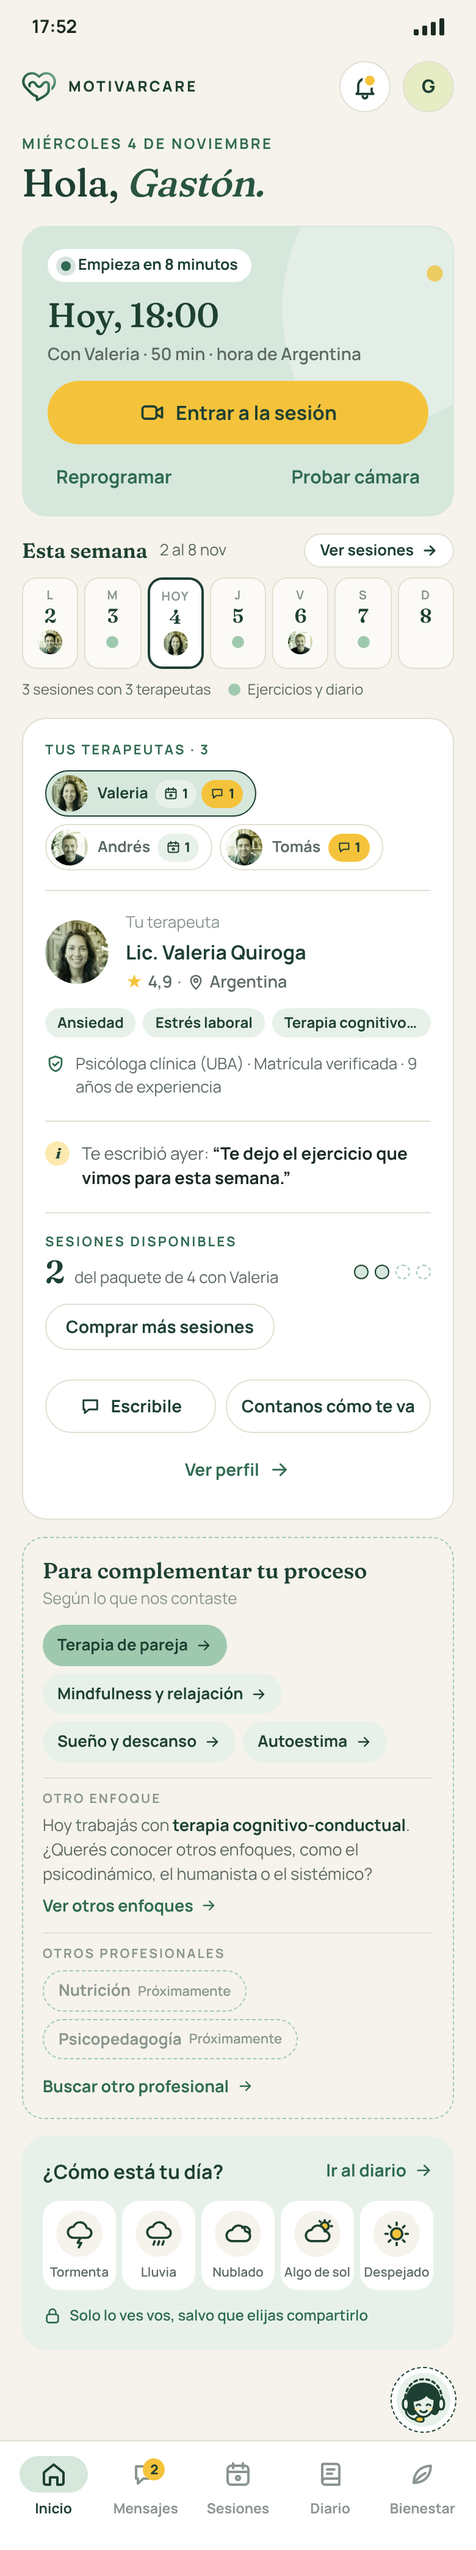
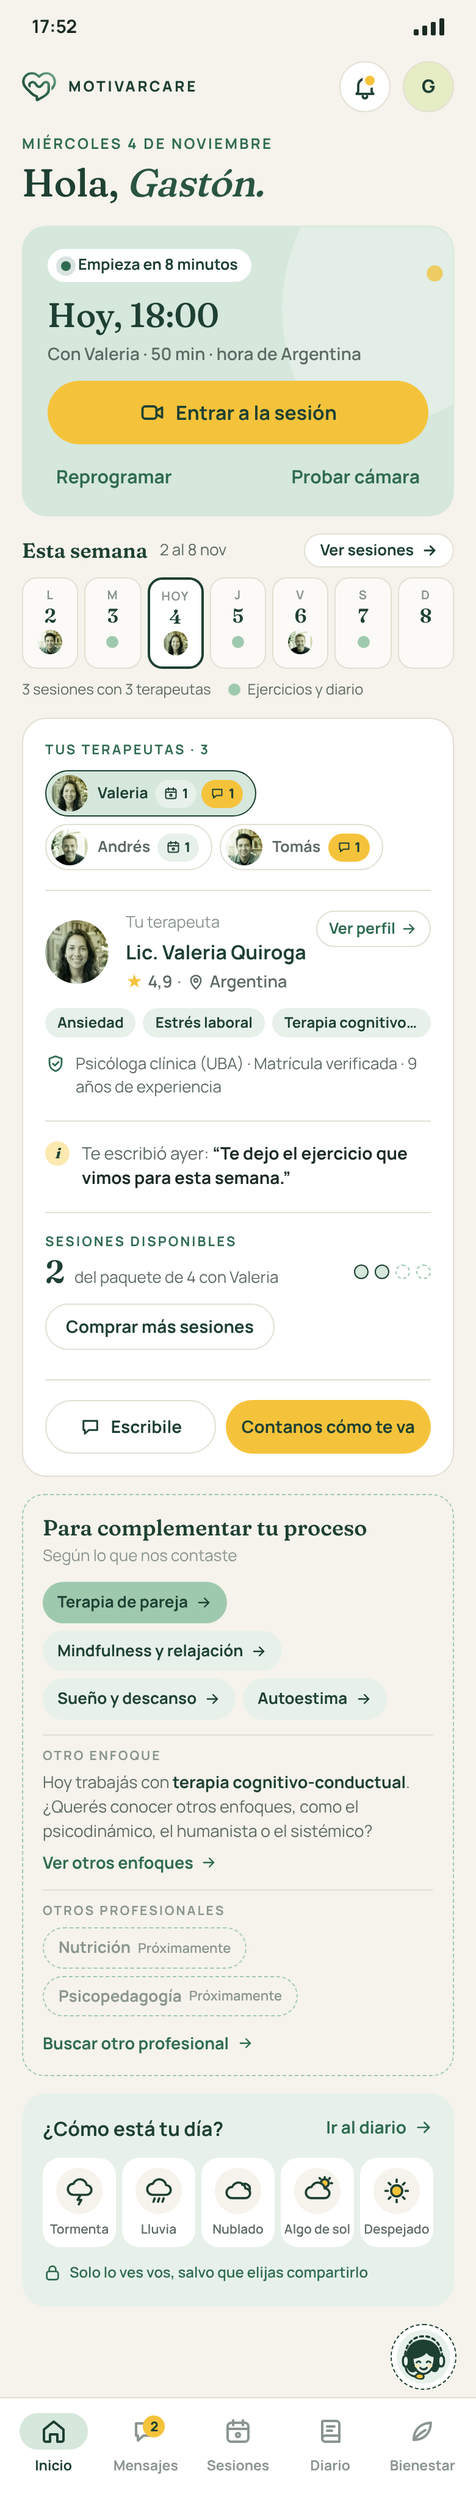
App del usuario: "Contanos cómo te va" en amarillo y "Ver perfil" arriba
En la Ficha del profesional, "Contanos cómo te va" pasa a amarillo (a
prueba), se suma una línea divisoria arriba de los botones y "Ver
perfil" vuelve a la esquina superior derecha. Mockups 1, 2, 4 y 8.

Claude-Session: https://claude.ai/code/session_01WU1DRuLLvKJwMVuiPWLics

diff --git a/web/public/app-usuario/ronda-2.html b/web/public/app-usuario/ronda-2.html
@@ -831,6 +831,12 @@ ul.lista-simple { padding: 0; }
 .pro2 .botones .boton.texto { padding: 0 6px; }
 .pro2-cab { padding-right: 0; }
 .ver-abajo { align-self: flex-start; padding: 0 !important; height: 32px; }
+
+/* Ficha del profesional: línea arriba de los botones y "Ver perfil" arriba a la derecha */
+.pro2 .botones { padding-top: 16px; border-top: 1px solid var(--linea); }
+.pro2-cab { padding-right: 96px; }
+.tel-pro .pro2-cab { padding-right: 88px; }
+.multi .pro2-cab { padding-right: 96px; }
 </style>
 </head>
 <body>
@@ -932,7 +938,7 @@ ul.lista-simple { padding: 0; }
         </div>
         <div class="columna-der">
         <article class="tarjeta pro2">
-          <div class="pro2-cab">
+          <div class="pro2-cab"><a class="ver-perfil">Ver perfil<svg class="ico"><use href="#i-flecha"/></svg></a>
             <img class="avatar" src="../landing/img/profesionales/valeria-quiroga.jpg" alt="" width="64" height="64">
             <div>
               <span class="tenue">Tu terapeuta</span>
@@ -944,7 +950,7 @@ ul.lista-simple { padding: 0; }
           <p class="credenciales"><svg class="ico"><use href="#i-escudo"/></svg>Psicóloga clínica (UBA) · Matrícula verificada · 9 años de experiencia</p>
           <div class="nota"><i>i</i><span>Te escribió ayer: <b style="color:var(--tinta)">“Te dejo el ejercicio que vimos para esta semana.”</b></span></div>
           <div class="disponibles"><span class="et">Sesiones disponibles</span><div class="fila-disp"><b>2</b><span>del paquete de 4 con Valeria</span><span class="puntos4"><i class="u"></i><i class="u"></i><i></i><i></i></span></div><a class="boton contorno comprar-mas">Comprar más sesiones</a></div>
-          <div class="botones"><a class="boton contorno"><svg class="ico chico"><use href="#i-chat"/></svg>Escribile</a><a class="boton contorno">Contanos cómo te va</a><a class="boton texto">Ver perfil<svg class="ico chico"><use href="#i-flecha"/></svg></a></div>
+          <div class="botones"><a class="boton contorno"><svg class="ico chico"><use href="#i-chat"/></svg>Escribile</a><a class="boton primario">Contanos cómo te va</a></div>
         </article>
           <div class="complementar">
             <div class="comp-cab"><b>Para complementar tu proceso</b><span class="tenue">Según lo que nos contaste</span></div>
@@ -1000,7 +1006,7 @@ ul.lista-simple { padding: 0; }
     </article>
     <div class="cal-tel"><div class="eq-cal-cab"><h2 class="eq-titulo">Esta semana</h2><span class="rango">2 al 8 nov</span><a class="eq-expandir" href="#sesiones">Ver sesiones<svg class="ico" style="width:14px;height:14px"><use href="#i-flecha"/></svg></a></div><div class="sem-tel"><div class="dt"><span class="d">L</span><span class="n">2</span><span class="m p"></span></div><div class="dt"><span class="d">M</span><span class="n">3</span><span class="m p"></span></div><div class="dt hoy"><span class="d">Hoy</span><span class="n">4</span><img class="m" src="../landing/img/profesionales/valeria-quiroga.jpg" alt=""></div><div class="dt"><span class="d">J</span><span class="n">5</span><span class="m p"></span></div><div class="dt"><span class="d">V</span><span class="n">6</span></div><div class="dt"><span class="d">S</span><span class="n">7</span><span class="m p"></span></div><div class="dt"><span class="d">D</span><span class="n">8</span></div></div><div class="ley-tel"><span><img src="../landing/img/profesionales/valeria-quiroga.jpg" alt="">Sesión con Valeria</span><span><i class="p"></i>Ejercicios y diario</span></div></div>
     <article class="tarjeta pro2 tel-pro">
-      <div class="pro2-cab">
+      <div class="pro2-cab"><a class="ver-perfil">Ver perfil<svg class="ico"><use href="#i-flecha"/></svg></a>
         <img class="avatar" src="../landing/img/profesionales/valeria-quiroga.jpg" alt="" width="52" height="52">
         <div>
           <span class="tenue">Tu terapeuta</span>
@@ -1012,7 +1018,7 @@ ul.lista-simple { padding: 0; }
       <p class="credenciales"><svg class="ico"><use href="#i-escudo"/></svg>Psicóloga clínica (UBA) · Matrícula verificada · 9 años de experiencia</p>
           <div class="nota"><i>i</i><span>Te escribió ayer: <b style="color:var(--tinta)">“Te dejo el ejercicio que vimos para esta semana.”</b></span></div>
       <div class="disponibles"><span class="et">Sesiones disponibles</span><div class="fila-disp"><b>2</b><span>del paquete de 4 con Valeria</span><span class="puntos4"><i class="u"></i><i class="u"></i><i></i><i></i></span></div><a class="boton contorno comprar-mas">Comprar más sesiones</a></div>
-      <div class="botones"><a class="boton contorno"><svg class="ico chico"><use href="#i-chat"/></svg>Escribile</a><a class="boton contorno">Contanos cómo te va</a><a class="boton texto">Ver perfil<svg class="ico chico"><use href="#i-flecha"/></svg></a></div>
+      <div class="botones"><a class="boton contorno"><svg class="ico chico"><use href="#i-chat"/></svg>Escribile</a><a class="boton primario">Contanos cómo te va</a></div>
     </article>
     <div class="complementar tel-comp">
             <div class="comp-cab"><b>Para complementar tu proceso</b><span class="tenue">Según lo que nos contaste</span></div>
@@ -1118,7 +1124,7 @@ ul.lista-simple { padding: 0; }
         </div>
         <div class="columna-der">
         <article class="tarjeta pro2">
-          <div class="pro2-cab">
+          <div class="pro2-cab"><a class="ver-perfil">Ver perfil<svg class="ico"><use href="#i-flecha"/></svg></a>
             <img class="avatar" src="../landing/img/profesionales/valeria-quiroga.jpg" alt="" width="64" height="64">
             <div>
               <span class="tenue">Tu terapeuta</span>
@@ -1129,7 +1135,7 @@ ul.lista-simple { padding: 0; }
           <div class="pills"><span class="chip">Ansiedad</span><span class="chip">Estrés laboral</span><span class="chip">Terapia cognitivo-conductual</span><span class="chip">Autoestima</span><span class="chip">Vínculos</span></div>
           <p class="credenciales"><svg class="ico"><use href="#i-escudo"/></svg>Psicóloga clínica (UBA) · Matrícula verificada · 9 años de experiencia</p>
           <div class="disponibles"><span class="et">Sesiones disponibles</span><div class="fila-disp"><b>1</b><span>del paquete de 4 con Valeria</span><span class="puntos4"><i class="u"></i><i class="u"></i><i class="u"></i><i></i></span></div><a class="boton bosque comprar-mas">Comprar más sesiones</a></div>
-          <div class="botones"><a class="boton contorno"><svg class="ico chico"><use href="#i-chat"/></svg>Escribile</a><a class="boton contorno">Contanos cómo te va</a><a class="boton texto">Ver perfil<svg class="ico chico"><use href="#i-flecha"/></svg></a></div>
+          <div class="botones"><a class="boton contorno"><svg class="ico chico"><use href="#i-chat"/></svg>Escribile</a><a class="boton primario">Contanos cómo te va</a></div>
         </article>
           <div class="complementar">
             <div class="comp-cab"><b>Para complementar tu proceso</b><span class="tenue">Según lo que nos contaste</span></div>
@@ -1190,7 +1196,7 @@ ul.lista-simple { padding: 0; }
     </article>
     <div class="cal-tel"><div class="eq-cal-cab"><h2 class="eq-titulo">Esta semana</h2><span class="rango">2 al 8 nov</span><a class="eq-expandir" href="#sesiones">Ver sesiones<svg class="ico" style="width:14px;height:14px"><use href="#i-flecha"/></svg></a></div><div class="sem-tel"><div class="dt"><span class="d">L</span><span class="n">2</span><span class="marcas"><span class="m p"></span></span></div><div class="dt"><span class="d">M</span><span class="n">3</span><span class="marcas"><span class="m p"></span></span></div><div class="dt hoy"><span class="d">Hoy</span><span class="n">4</span><span class="marcas"><span class="m l"></span></span></div><div class="dt"><span class="d">J</span><span class="n">5</span><span class="marcas"><span class="m p"></span><span class="m l"></span></span></div><div class="dt"><span class="d">V</span><span class="n">6</span><span class="marcas"><span class="m l"></span></span></div><div class="dt"><span class="d">S</span><span class="n">7</span><span class="marcas"><span class="m p"></span></span></div><div class="dt"><span class="d">D</span><span class="n">8</span><span class="marcas"></span></div></div><div class="ley-tel"><span><i class="l"></i>Horario libre de Valeria</span><span><i class="p"></i>Ejercicios y diario</span></div></div>
     <article class="tarjeta pro2 tel-pro">
-      <div class="pro2-cab">
+      <div class="pro2-cab"><a class="ver-perfil">Ver perfil<svg class="ico"><use href="#i-flecha"/></svg></a>
         <img class="avatar" src="../landing/img/profesionales/valeria-quiroga.jpg" alt="" width="52" height="52">
         <div>
           <span class="tenue">Tu terapeuta</span>
@@ -1201,7 +1207,7 @@ ul.lista-simple { padding: 0; }
       <div class="pills"><span class="chip">Ansiedad</span><span class="chip">Estrés laboral</span><span class="chip">Terapia cognitivo-conductual</span><span class="chip">Autoestima</span><span class="chip">Vínculos</span></div>
       <p class="credenciales"><svg class="ico"><use href="#i-escudo"/></svg>Psicóloga clínica (UBA) · Matrícula verificada · 9 años de experiencia</p>
       <div class="disponibles"><span class="et">Sesiones disponibles</span><div class="fila-disp"><b>1</b><span>del paquete de 4 con Valeria</span><span class="puntos4"><i class="u"></i><i class="u"></i><i class="u"></i><i></i></span></div><a class="boton bosque comprar-mas">Comprar más sesiones</a></div>
-      <div class="botones"><a class="boton contorno"><svg class="ico chico"><use href="#i-chat"/></svg>Escribile</a><a class="boton contorno">Contanos cómo te va</a><a class="boton texto">Ver perfil<svg class="ico chico"><use href="#i-flecha"/></svg></a></div>
+      <div class="botones"><a class="boton contorno"><svg class="ico chico"><use href="#i-chat"/></svg>Escribile</a><a class="boton primario">Contanos cómo te va</a></div>
     </article>
     <div class="complementar tel-comp">
             <div class="comp-cab"><b>Para complementar tu proceso</b><span class="tenue">Según lo que nos contaste</span></div>
@@ -1486,7 +1492,7 @@ ul.lista-simple { padding: 0; }
               <span class="tab-pro"><img src="../landing/img/profesionales/tomas-benitez.jpg" alt=""><span>Tomás</span><span class="aviso msj" title="1 mensaje sin leer"><svg class="ico"><use href="#i-chat"/></svg>1</span></span>
             </div>
           </div>
-          <div class="pro2-cab">
+          <div class="pro2-cab"><a class="ver-perfil">Ver perfil<svg class="ico"><use href="#i-flecha"/></svg></a>
             <img class="avatar" src="../landing/img/profesionales/valeria-quiroga.jpg" alt="" width="64" height="64">
             <div>
               <span class="tenue">Tu terapeuta</span>
@@ -1498,7 +1504,7 @@ ul.lista-simple { padding: 0; }
           <p class="credenciales"><svg class="ico"><use href="#i-escudo"/></svg>Psicóloga clínica (UBA) · Matrícula verificada · 9 años de experiencia</p>
           <div class="nota"><i>i</i><span>Te escribió ayer: <b style="color:var(--tinta)">“Te dejo el ejercicio que vimos para esta semana.”</b></span></div>
           <div class="disponibles"><span class="et">Sesiones disponibles</span><div class="fila-disp"><b>2</b><span>del paquete de 4 con Valeria</span><span class="puntos4"><i class="u"></i><i class="u"></i><i></i><i></i></span></div><a class="boton contorno comprar-mas">Comprar más sesiones</a></div>
-          <div class="botones"><a class="boton contorno"><svg class="ico chico"><use href="#i-chat"/></svg>Escribile</a><a class="boton contorno">Contanos cómo te va</a><a class="boton texto">Ver perfil<svg class="ico chico"><use href="#i-flecha"/></svg></a></div>
+          <div class="botones"><a class="boton contorno"><svg class="ico chico"><use href="#i-chat"/></svg>Escribile</a><a class="boton primario">Contanos cómo te va</a></div>
         </article>
           <div class="complementar">
             <div class="comp-cab"><b>Para complementar tu proceso</b><span class="tenue">Según lo que nos contaste</span></div>
@@ -1562,7 +1568,7 @@ ul.lista-simple { padding: 0; }
               <span class="tab-pro"><img src="../landing/img/profesionales/tomas-benitez.jpg" alt=""><span>Tomás</span><span class="aviso msj" title="1 mensaje sin leer"><svg class="ico"><use href="#i-chat"/></svg>1</span></span>
             </div>
           </div>
-      <div class="pro2-cab">
+      <div class="pro2-cab"><a class="ver-perfil">Ver perfil<svg class="ico"><use href="#i-flecha"/></svg></a>
         <img class="avatar" src="../landing/img/profesionales/valeria-quiroga.jpg" alt="" width="52" height="52">
         <div>
           <span class="tenue">Tu terapeuta</span>
@@ -1574,7 +1580,7 @@ ul.lista-simple { padding: 0; }
       <p class="credenciales"><svg class="ico"><use href="#i-escudo"/></svg>Psicóloga clínica (UBA) · Matrícula verificada · 9 años de experiencia</p>
           <div class="nota"><i>i</i><span>Te escribió ayer: <b style="color:var(--tinta)">“Te dejo el ejercicio que vimos para esta semana.”</b></span></div>
       <div class="disponibles"><span class="et">Sesiones disponibles</span><div class="fila-disp"><b>2</b><span>del paquete de 4 con Valeria</span><span class="puntos4"><i class="u"></i><i class="u"></i><i></i><i></i></span></div><a class="boton contorno comprar-mas">Comprar más sesiones</a></div>
-      <div class="botones"><a class="boton contorno"><svg class="ico chico"><use href="#i-chat"/></svg>Escribile</a><a class="boton contorno">Contanos cómo te va</a><a class="boton texto">Ver perfil<svg class="ico chico"><use href="#i-flecha"/></svg></a></div>
+      <div class="botones"><a class="boton contorno"><svg class="ico chico"><use href="#i-chat"/></svg>Escribile</a><a class="boton primario">Contanos cómo te va</a></div>
     </article>
     <div class="complementar tel-comp">
             <div class="comp-cab"><b>Para complementar tu proceso</b><span class="tenue">Según lo que nos contaste</span></div>
@@ -2108,7 +2114,7 @@ ul.lista-simple { padding: 0; }
         </div>
         <div class="columna-der">
           <article class="tarjeta pro2">
-          <div class="pro2-cab">
+          <div class="pro2-cab"><a class="ver-perfil">Ver perfil<svg class="ico"><use href="#i-flecha"/></svg></a>
             <img class="avatar" src="../landing/img/profesionales/valeria-quiroga.jpg" alt="" width="64" height="64">
             <div>
               <span class="tenue">Tu terapeuta</span>
@@ -2119,7 +2125,7 @@ ul.lista-simple { padding: 0; }
           <div class="pills"><span class="chip">Ansiedad</span><span class="chip">Estrés laboral</span><span class="chip">Terapia cognitivo-conductual</span><span class="chip">Autoestima</span><span class="chip">Vínculos</span></div>
           <p class="credenciales"><svg class="ico"><use href="#i-escudo"/></svg>Psicóloga clínica (UBA) · Matrícula verificada · 9 años de experiencia</p>
           
-        <div class="aclaraciones"><div class="item"><svg class="ico chico"><use href="#i-video"/></svg><span>Videollamada de 50 min. El enlace te llega por mail y queda en Sesiones.</span></div><div class="item"><svg class="ico chico"><use href="#i-reloj"/></svg><span>Podés reprogramar sin costo hasta 24 h antes.</span></div></div><a class="boton texto ver-abajo">Ver perfil<svg class="ico chico"><use href="#i-flecha"/></svg></a>
+        <div class="aclaraciones"><div class="item"><svg class="ico chico"><use href="#i-video"/></svg><span>Videollamada de 50 min. El enlace te llega por mail y queda en Sesiones.</span></div><div class="item"><svg class="ico chico"><use href="#i-reloj"/></svg><span>Podés reprogramar sin costo hasta 24 h antes.</span></div></div>
           </article>
           <div class="tarjeta reservar-box">
             <span class="et-franja" style="width:auto;color:var(--verde-medio)">Tu sesión</span>
@@ -2156,7 +2162,7 @@ ul.lista-simple { padding: 0; }
           <div class="nota ctx-nota"><i>i</i><span>Te recomendamos reservar una sola sesión como <b>encuentro inicial</b>, para conocerse con Valeria. Si se sienten a gusto, después pueden seguir con un paquete.</span></div>
         </article>
     <article class="tarjeta pro2 tel-pro">
-      <div class="pro2-cab">
+      <div class="pro2-cab"><a class="ver-perfil">Ver perfil<svg class="ico"><use href="#i-flecha"/></svg></a>
         <img class="avatar" src="../landing/img/profesionales/valeria-quiroga.jpg" alt="" width="52" height="52">
         <div>
           <span class="tenue">Reservás con</span>
@@ -2166,7 +2172,7 @@ ul.lista-simple { padding: 0; }
       </div>
       <div class="pills"><span class="chip">Ansiedad</span><span class="chip">Estrés laboral</span><span class="chip">Terapia cognitivo-conductual</span><span class="chip">Autoestima</span><span class="chip">Vínculos</span></div>
       
-    <div class="aclaraciones"><div class="item"><svg class="ico chico"><use href="#i-video"/></svg><span>Videollamada de 50 min.</span></div><div class="item"><svg class="ico chico"><use href="#i-reloj"/></svg><span>Podés reprogramar sin costo hasta 24 h antes.</span></div></div><a class="boton texto ver-abajo">Ver perfil<svg class="ico chico"><use href="#i-flecha"/></svg></a>
+    <div class="aclaraciones"><div class="item"><svg class="ico chico"><use href="#i-video"/></svg><span>Videollamada de 50 min.</span></div><div class="item"><svg class="ico chico"><use href="#i-reloj"/></svg><span>Podés reprogramar sin costo hasta 24 h antes.</span></div></div>
     </article>
     <span class="peq" style="color:var(--bosque)">Horarios libres en tu hora (Argentina)</span>
     <div class="lista-dias"><div class="dia-sec"><div class="dia-cab"><b>Hoy, miércoles 4 de noviembre</b><span class="tenue">1 horario</span></div><div class="horarios"><span class="horario">18:00</span></div></div><div class="dia-sec"><div class="dia-cab"><b>Jueves 5 de noviembre</b><span class="tenue">3 horarios</span></div><div class="horarios"><span class="horario">13:00</span><span class="horario elegido">18:30</span><span class="horario">20:00</span></div></div><div class="dia-sec"><div class="dia-cab"><b>Viernes 6 de noviembre</b><span class="tenue">3 horarios</span></div><div class="horarios"><span class="horario">09:00</span><span class="horario">10:00</span><span class="horario">17:00</span></div></div></div>
@@ -2202,7 +2208,7 @@ ul.lista-simple { padding: 0; }
           <div class="ctx-linea cambio"><span class="et-franja" style="width:auto">Estás cambiando</span><b>Viernes 6 de noviembre, 10:00</b></div>
         </article>
     <article class="tarjeta pro2 tel-pro">
-      <div class="pro2-cab">
+      <div class="pro2-cab"><a class="ver-perfil">Ver perfil<svg class="ico"><use href="#i-flecha"/></svg></a>
         <img class="avatar" src="../landing/img/profesionales/valeria-quiroga.jpg" alt="" width="52" height="52">
         <div>
           <span class="tenue">Tu terapeuta</span>
@@ -2212,7 +2218,7 @@ ul.lista-simple { padding: 0; }
       </div>
       <div class="pills"><span class="chip">Ansiedad</span><span class="chip">Estrés laboral</span><span class="chip">Terapia cognitivo-conductual</span><span class="chip">Autoestima</span><span class="chip">Vínculos</span></div>
       
-    <div class="aclaraciones"><div class="item"><svg class="ico chico"><use href="#i-video"/></svg><span>Videollamada de 50 min.</span></div><div class="item"><svg class="ico chico"><use href="#i-reloj"/></svg><span>Podés reprogramar sin costo hasta 24 h antes.</span></div></div><a class="boton texto ver-abajo">Ver perfil<svg class="ico chico"><use href="#i-flecha"/></svg></a>
+    <div class="aclaraciones"><div class="item"><svg class="ico chico"><use href="#i-video"/></svg><span>Videollamada de 50 min.</span></div><div class="item"><svg class="ico chico"><use href="#i-reloj"/></svg><span>Podés reprogramar sin costo hasta 24 h antes.</span></div></div>
     </article>
     <span class="peq" style="color:var(--bosque)">Horarios libres en tu hora (Argentina)</span>
     <div class="lista-dias"><div class="dia-sec"><div class="dia-cab"><b>Hoy, miércoles 4 de noviembre</b><span class="tenue">1 horario</span></div><div class="horarios"><span class="horario">18:00</span></div></div><div class="dia-sec"><div class="dia-cab"><b>Jueves 5 de noviembre</b><span class="tenue">3 horarios</span></div><div class="horarios"><span class="horario">13:00</span><span class="horario elegido">18:30</span><span class="horario">20:00</span></div></div><div class="dia-sec"><div class="dia-cab"><b>Viernes 6 de noviembre</b><span class="tenue">3 horarios</span></div><div class="horarios"><span class="horario">09:00</span><span class="horario actual">10:00<small>La que cambiás</small></span><span class="horario">17:00</span></div></div></div>
@@ -2248,7 +2254,7 @@ ul.lista-simple { padding: 0; }
           <div class="ctx-linea cambio" style="border-top:0;padding-top:0"><span class="et-franja" style="width:auto">Estás cambiando</span><b>Hoy, miércoles 4 de noviembre, 18:00</b></div>
         </article>
     <article class="tarjeta pro2 tel-pro">
-      <div class="pro2-cab">
+      <div class="pro2-cab"><a class="ver-perfil">Ver perfil<svg class="ico"><use href="#i-flecha"/></svg></a>
         <img class="avatar" src="../landing/img/profesionales/valeria-quiroga.jpg" alt="" width="52" height="52">
         <div>
           <span class="tenue">Tu terapeuta</span>
@@ -2258,7 +2264,7 @@ ul.lista-simple { padding: 0; }
       </div>
       <div class="pills"><span class="chip">Ansiedad</span><span class="chip">Estrés laboral</span><span class="chip">Terapia cognitivo-conductual</span><span class="chip">Autoestima</span><span class="chip">Vínculos</span></div>
       
-    <div class="aclaraciones"><div class="item"><svg class="ico chico"><use href="#i-video"/></svg><span>Videollamada de 50 min.</span></div><div class="item"><svg class="ico chico"><use href="#i-reloj"/></svg><span>Podés reprogramar sin costo hasta 24 h antes.</span></div></div><a class="boton texto ver-abajo">Ver perfil<svg class="ico chico"><use href="#i-flecha"/></svg></a>
+    <div class="aclaraciones"><div class="item"><svg class="ico chico"><use href="#i-video"/></svg><span>Videollamada de 50 min.</span></div><div class="item"><svg class="ico chico"><use href="#i-reloj"/></svg><span>Podés reprogramar sin costo hasta 24 h antes.</span></div></div>
     </article>
     <article class="tarjeta aviso-24">
       <span class="icono-aviso"><svg class="ico"><use href="#i-reloj"/></svg></span>

diff --git a/06-app-usuario/historial/ronda-2.md b/06-app-usuario/historial/ronda-2.md
@@ -160,7 +160,7 @@ Toma como base el Inicio B3 de la [Ronda #1](/06-app-usuario/historial/ronda-1/)
 - **Una línea con sus credenciales:** "Psicóloga clínica (UBA) · Matrícula verificada · 9 años de experiencia", con el ícono del escudo.
 - **El último mensaje sin leer**, en una nota sutil (círculo amarillo suave con la "i" y el texto: "Te escribió ayer: …"). **Solo aparece si hay un mensaje sin leer**; si no, la tarjeta pasa directo a las sesiones.
 - **Las sesiones disponibles con ese profesional:** "2 del paquete de 4 con Valeria", con cuatro puntos (sólidos las usadas o reservadas, punteados las disponibles). La próxima sesión ya está en la tarjeta verde y la última, en la agenda de la semana o en Sesiones.
-- **Acciones:** "Escribile" (abre el chat), "Contanos cómo te va" y "Ver perfil", abajo. "Comprar más sesiones" está en el apartado de sesiones disponibles (ver los ajustes del 13/11). Nada compite con la sesión: el amarillo queda reservado para "Entrar a la sesión", el único botón principal de la pantalla.
+- **Acciones:** abajo, separados por una línea, "Escribile" (abre el chat) y "Contanos cómo te va" (en amarillo, a prueba); "Ver perfil" arriba a la derecha. "Comprar más sesiones" está en el apartado de sesiones disponibles (ver los ajustes del 13/11). 
 
 Otros cambios respecto del B3:
 
@@ -296,7 +296,7 @@ Una de las decisiones de esta ronda es trabajar con **pocos componentes, robusto
 | [![Navegación principal](/img/app-usuario/ronda-2/componentes/navegacion.jpg)](/img/app-usuario/ronda-2/componentes/navegacion.jpg) | **Navegación principal** | Llevar a los cinco destinos: Inicio, Mensajes, Sesiones, Diario y Bienestar, con el contador de mensajes sin leer. | Todas las pantallas, salvo la contratación (mockup 7). | Barra lateral (escritorio) y barra inferior (teléfono). |
 | [![Cabecera guía](/img/app-usuario/ronda-2/componentes/cabecera-guia.jpg)](/img/app-usuario/ronda-2/componentes/cabecera-guia.jpg) | **Cabecera guía** | Encabezar el Inicio con una tarjeta verde salvia que dice lo que la persona tiene que hacer ahora, con un único botón amarillo. Responde siempre "¿qué tengo que hacer ahora?". | Inicio con profesional (mockups 1, 2 y 4). | Sesión por empezar ("Entrar a la sesión", "Reprogramar"); sin turnos (próximos horarios libres y "Reservar sesión"). |
 | [![Primeros pasos](/img/app-usuario/ronda-2/componentes/primeros-pasos.jpg)](/img/app-usuario/ronda-2/componentes/primeros-pasos.jpg) | **Primeros pasos** | Guiar al usuario nuevo hacia su primera sesión: una tarjeta verde bosque con los cuatro pasos (el actual en amarillo, los pendientes punteados), "Ver terapeutas" y la aclaración de precios. | Inicio sin profesional (mockup 3). | — |
-| [![Ficha del profesional](/img/app-usuario/ronda-2/componentes/ficha-profesional.jpg)](/img/app-usuario/ronda-2/componentes/ficha-profesional.jpg) | **Ficha del profesional** | Decir siempre con quién se hace, se paga o se reserva: foto, nombre, calificación y país, especialidades, credenciales y acciones. En esta fase todos son terapeutas (en pantalla dice "Tu terapeuta"). | Inicio (mockups 1, 2 y 4), Buscador de profesionales (mockups 5 y 6), contratación (mockup 7) y reserva (mockup 8). | Completa (con el mensaje sin leer y las sesiones disponibles, con "Comprar más sesiones" cuando ya se usó la mitad del paquete, en verde bosque si queda 1 o ninguna; abajo, "Escribile", "Contanos cómo te va" y "Ver perfil"); con **selector de profesionales** (pastillas con avisos de sesiones y mensajes, el principal primero); resumida (dentro del Resumen de contratación); compacta (teléfono); **resultado de búsqueda** (en el Buscador de profesionales, con las especialidades que coinciden, el precio del encuentro inicial, "Ver perfil y horarios" y "Ver paquetes"). |
+| [![Ficha del profesional](/img/app-usuario/ronda-2/componentes/ficha-profesional.jpg)](/img/app-usuario/ronda-2/componentes/ficha-profesional.jpg) | **Ficha del profesional** | Decir siempre con quién se hace, se paga o se reserva: foto, nombre, calificación y país, especialidades, credenciales y acciones. En esta fase todos son terapeutas (en pantalla dice "Tu terapeuta"). | Inicio (mockups 1, 2 y 4), Buscador de profesionales (mockups 5 y 6), contratación (mockup 7) y reserva (mockup 8). | Completa (con el mensaje sin leer y las sesiones disponibles, con "Comprar más sesiones" cuando ya se usó la mitad del paquete, en verde bosque si queda 1 o ninguna; abajo, separados por una línea, "Escribile" y "Contanos cómo te va", en amarillo; "Ver perfil" arriba a la derecha); con **selector de profesionales** (pastillas con avisos de sesiones y mensajes, el principal primero); resumida (dentro del Resumen de contratación); compacta (teléfono); **resultado de búsqueda** (en el Buscador de profesionales, con las especialidades que coinciden, el precio del encuentro inicial, "Ver perfil y horarios" y "Ver paquetes"). |
 | [![Buscador de profesionales](/img/app-usuario/ronda-2/componentes/buscador-profesionales.jpg)](/img/app-usuario/ronda-2/componentes/buscador-profesionales.jpg) | **Buscador de profesionales** | Encontrar y elegir un profesional: la lista de fichas (resultados de búsqueda), el orden por compatibilidad (con prioridad a una especialidad) o por precio, el filtro "Mostrar" por categoría de profesional y el panel "Lo que nos contaste", con "Cambiar mis respuestas". | Elección de profesional (mockups 5 y 6), desde "Ver terapeutas" (mockup 3) o desde el Cross-selling de profesionales, con los filtros cargados. | Por defecto ("Compatibilidad", según todas tus respuestas) o con una especialidad elegida (el control dice su nombre); escritorio (panel a la derecha) y teléfono (respuestas como pills). |
 | [![Selector de paquetes](/img/app-usuario/ronda-2/componentes/selector-paquetes.jpg)](/img/app-usuario/ronda-2/componentes/selector-paquetes.jpg) | **Selector de paquetes** | Elegir qué contratar con un profesional: el encuentro inicial o un paquete, con su precio, su ahorro y el precio por sesión, y la opción de usar un código de descuento. | Contratación (mockup 7), desde "Ver paquetes" o "Comprar más sesiones". | Primera vez con ese profesional (el encuentro inicial recomendado y elegido por defecto) o ya con sesiones previas (los paquetes primero). |
 | [![Resumen de contratación](/img/app-usuario/ronda-2/componentes/resumen-contratacion.jpg)](/img/app-usuario/ronda-2/componentes/resumen-contratacion.jpg) | **Resumen de contratación** | Responder, junto a la acción, con quién, qué y cuánto: contiene la Ficha del profesional (variante resumida), las aclaraciones del servicio (videollamada de 50 minutos y reprogramación sin costo hasta 24 h antes), el desglose y el total, y el botón amarillo con su aclaración. | Contratación (mockup 7) y reserva (mockup 8). | **Contratación** (desglose, total y "Continuar al pago", con "Es el monto exacto que vas a ver en el pago"); **reserva** ("Tu sesión" con el día y la hora elegidos, y "Reservar sesión", "Reservar y proceder al pago" o "Reprogramar sesión"); columna derecha (escritorio) o barra fija (teléfono). |
@@ -360,5 +360,6 @@ En el **Cross-selling de profesionales**, las especialidades sugeridas (no la mo
 ### Ficha del profesional: comprar, contar y ver perfil (13/11)
 
 - **"Comprar más sesiones"** pasa al apartado de **sesiones disponibles**, debajo del número. **No aparece hasta que la persona usó al menos la mitad de las sesiones de su paquete.** Si le queda 1 sesión o ninguna, el botón pasa de blanco a **verde bosque**, para darle más relevancia. En los mockups 1 y 4 quedan 2 de 4 (botón blanco); el mockup 2 pasa a tener 1 de 4 (botón verde bosque), y su saludo y su botón amarillo lo dicen ("Te queda 1 sesión disponible con Valeria", "Usás tu última sesión disponible con Valeria").
-- **"Ver perfil"** vuelve abajo, con las demás acciones (también en la reserva, mockup 8).
-- **Nuevo botón: "Contanos cómo te va".** También aparece a partir de la mitad del paquete (o cuando no quedan sesiones), y abre un componente para dar feedback sobre el proceso con el profesional y calificarlo. Ese componente está por diseñar.
+- **"Ver perfil"** queda arriba a la derecha de la ficha: con tres botones abajo no entraba en la misma fila (también en la reserva, mockup 8).
+- **Línea divisoria arriba de los botones**, como entre los demás apartados de la ficha.
+- **Nuevo botón: "Contanos cómo te va"**, en **amarillo** (a prueba). También aparece a partir de la mitad del paquete (o cuando no quedan sesiones), y abre un componente para dar feedback sobre el proceso con el profesional y calificarlo. Ese componente está por diseñar.
